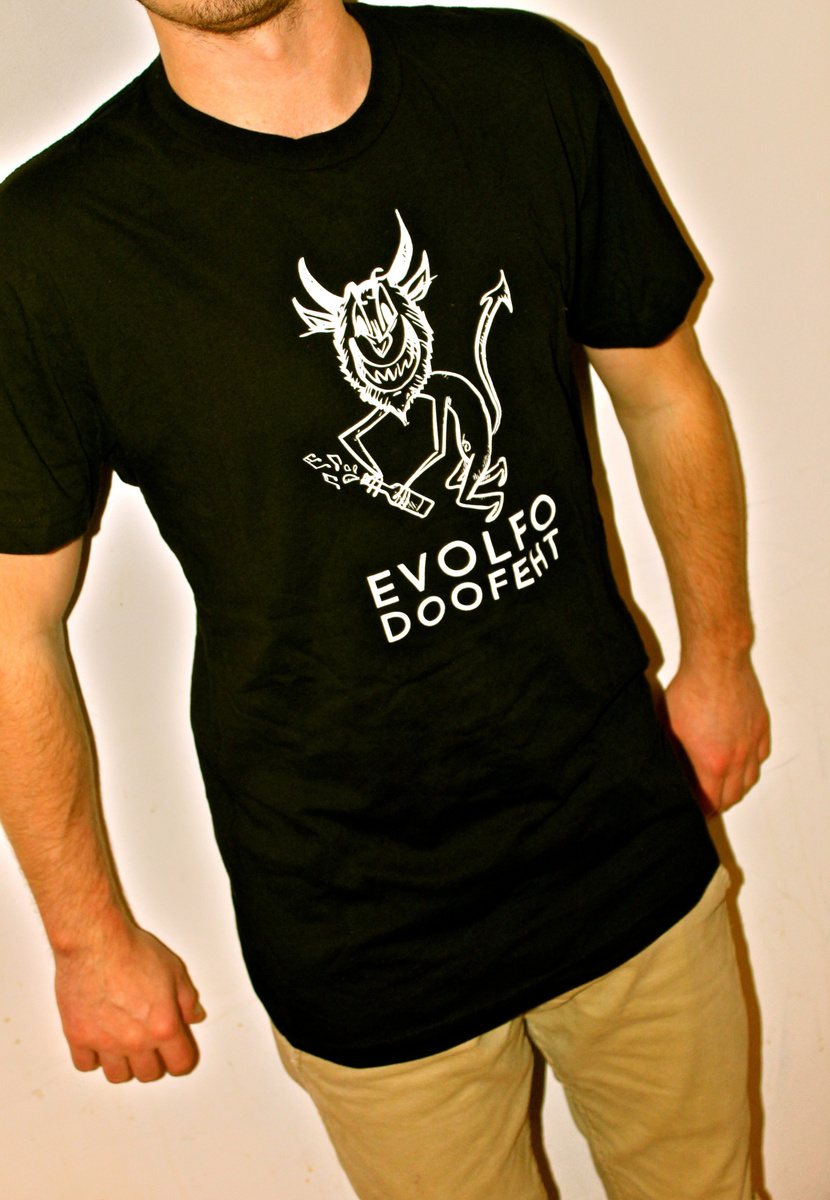
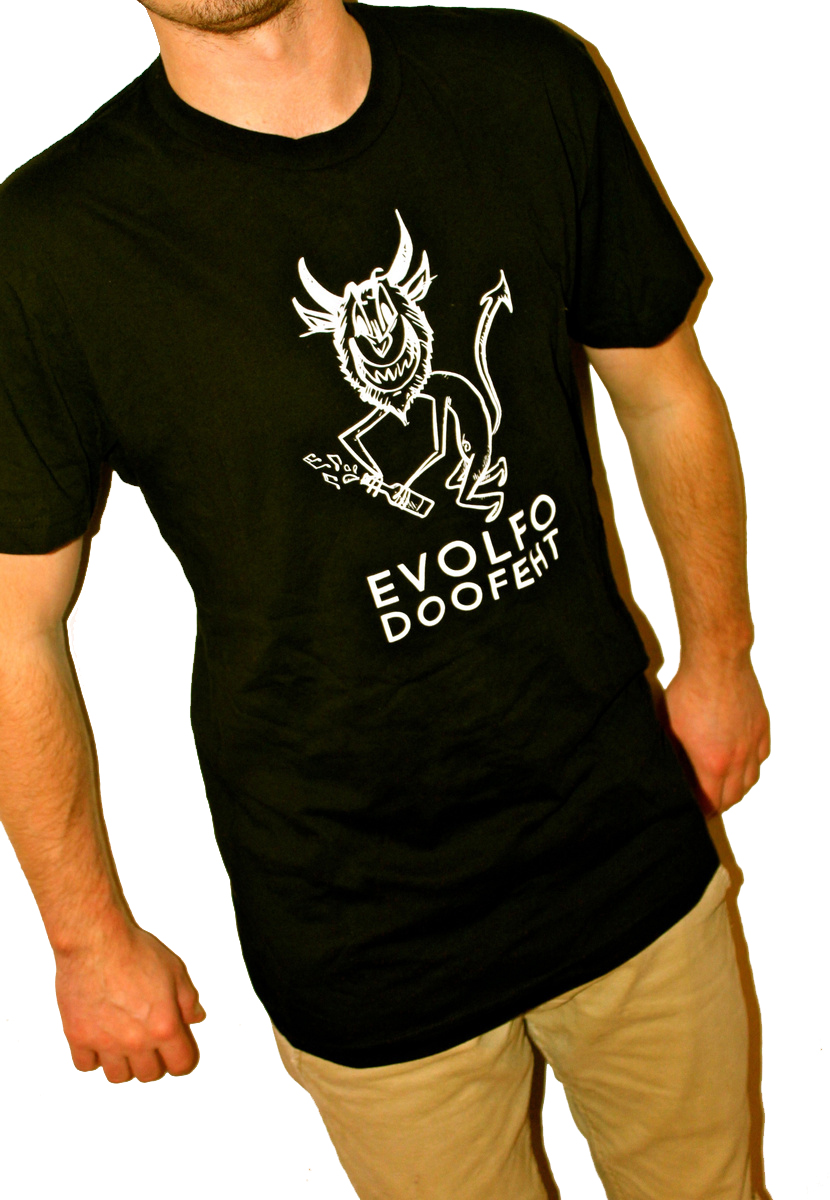
new mercy.

diff --git a/index.html b/index.html
@@ -247,7 +247,7 @@
 
     <p style="text-shadow: 1px 1px 1px #000; font-size: 18px; line-height: 115%" class="lead text-center">Perhaps best known for their live performances, Evolfo was discovered in the literal underground scene of Allston, MA's basement shows. There in Boston they formed their current lineup. It was here that Evolfo began to achieve some notoriety. Rising up, like many Boston bands before them, out of the basement show underworld and joining the ranks of other notable Boston funk/world acts like The Macrotones and Jesse Dee. They gained much support after their first independent release in September 2012 “The Food of Love” EP, which featured a song and video for what is perhaps the best known Evolfo track “You Light Me Up”. In December 2012 they were invited to perform in front of the entire Boston music community at the Boston Music Awards, where they were also announced winners of the “International Artist of the Year” award. Since then they have been sharing stages all over the US with acts such as Red Baraat, No BS! Brass Band, Hot 8 Brass Band, Betty Who, Moon Hooch, Counting Crows and others.</p>
 
-    <p style="text-shadow: 1px 1px 1px #000; font-size: 18px; line-height: 115%" class="lead text-center">In the fall of 2013, Evolfo moved from Boston to Brooklyn, jumping head first into the ever-competitive music scene that is New York City. Since that time, they have been carving a place for themselves in many different venues, making the rounds in New York venues. Evolfo wrote, recorded and manufactured its second frontline release without the help of a label. The two track, 7” Vinyl entitled FHF/Carry On will be released mid-September. Evolfo has always been of the “just get in the van and tour” school of thought so you never know where you might find them. They may be down south playing stages at SXSW or out west hitting such festivals as Hardly Strictly Bluegrass. Currently the best chance of catching Evolfo is at clubs and parties in the North East. If music be the food of love, play on!</p>
+    <p style="text-shadow: 1px 1px 1px #000; font-size: 18px; line-height: 115%" class="lead text-center">In the fall of 2013, Evolfo moved from Boston to Brooklyn, jumping head first into the ever-competitive music scene that is New York City. Since that time, they have been carving a place for themselves in many different venues, making the rounds in New York. Evolfo wrote, recorded and manufactured its second frontline release without the help of a label. The two track, 7” Vinyl entitled FHF/Carry On will be released mid-September. Evolfo has always been of the “just get in the van and tour” school of thought so you never know where you might find them. They may be down south playing stages at SXSW or out west hitting such festivals as Hardly Strictly Bluegrass. Currently the best chance of catching Evolfo is at clubs and parties in the North East. If music be the food of love, play on!</p>
     </div>
     <p style="margin-bottom:-35px;" class="sectionfooter text-center"> <a class="showmore btn-link"><img src="images/show_icon.png" alt="icon"> <span>FULL BIO</span> </a> </p> 
 
@@ -396,6 +396,23 @@
           <img alt="" border="0" src="https://www.paypalobjects.com/en_US/i/scr/pixel.gif" width="1" height="1">
       </form>
 
+      <p style="text-shadow: 1px 1px 1px #000; font-size: 17px;">Souper Groove Tickets</p>
+      <img height="400" width="412" src="images/soupergroove.png">
+      <center><form target="paypal" style="margin-top:20px" action="https://www.paypal.com/cgi-bin/webscr" method="post">
+        <input type="hidden" name="cmd" value="_s-xclick">
+        <input type="hidden" name="hosted_button_id" value="TM5YN7NBAKNQN">
+        <table>
+        <tr><td><input type="hidden" name="on0" value="Day or Weekend Pass">Day or Weekend Pass</td></tr><tr><td><select name="os0">
+          <option value="Day Pass">Day Pass $30.00 USD</option>
+          <option value="Weekend Pass">Weekend Pass $60.00 USD</option>
+        </select> </td></tr>
+        </table>
+        <input type="hidden" name="currency_code" value="USD">
+        <input type="image" src="https://www.paypalobjects.com/en_US/i/btn/btn_cart_LG.gif" border="0" name="submit" alt="PayPal - The safer, easier way to pay online!">
+        <img alt="" border="0" src="https://www.paypalobjects.com/en_US/i/scr/pixel.gif" width="1" height="1">
+      </form></center>
+
+
       <div>
       <p style="text-shadow: 1px 1px 1px #000; font-size: 17px;">The Food of Love (EP) - Physical Album</p>
       <img height="400" width="400" src="images/foodoflove.jpg">
@@ -408,7 +425,7 @@
       </div>
       <div style="">
       <p style="text-shadow: 1px 1px 1px #000; font-size: 17px;">Demon Logo Tee</p>
-      <img height="400" width="400" src="images/evolfotshirt.jpg">
+      <img height="400" width="400" src="images/evolfotshirt.png">
       <form target="paypal" style="margin-top: 20px" action="https://www.paypal.com/cgi-bin/webscr" method="post">
           <input type="hidden" name="cmd" value="_s-xclick">
           <input type="hidden" name="hosted_button_id" value="QCW4V6GQHXEBC">
